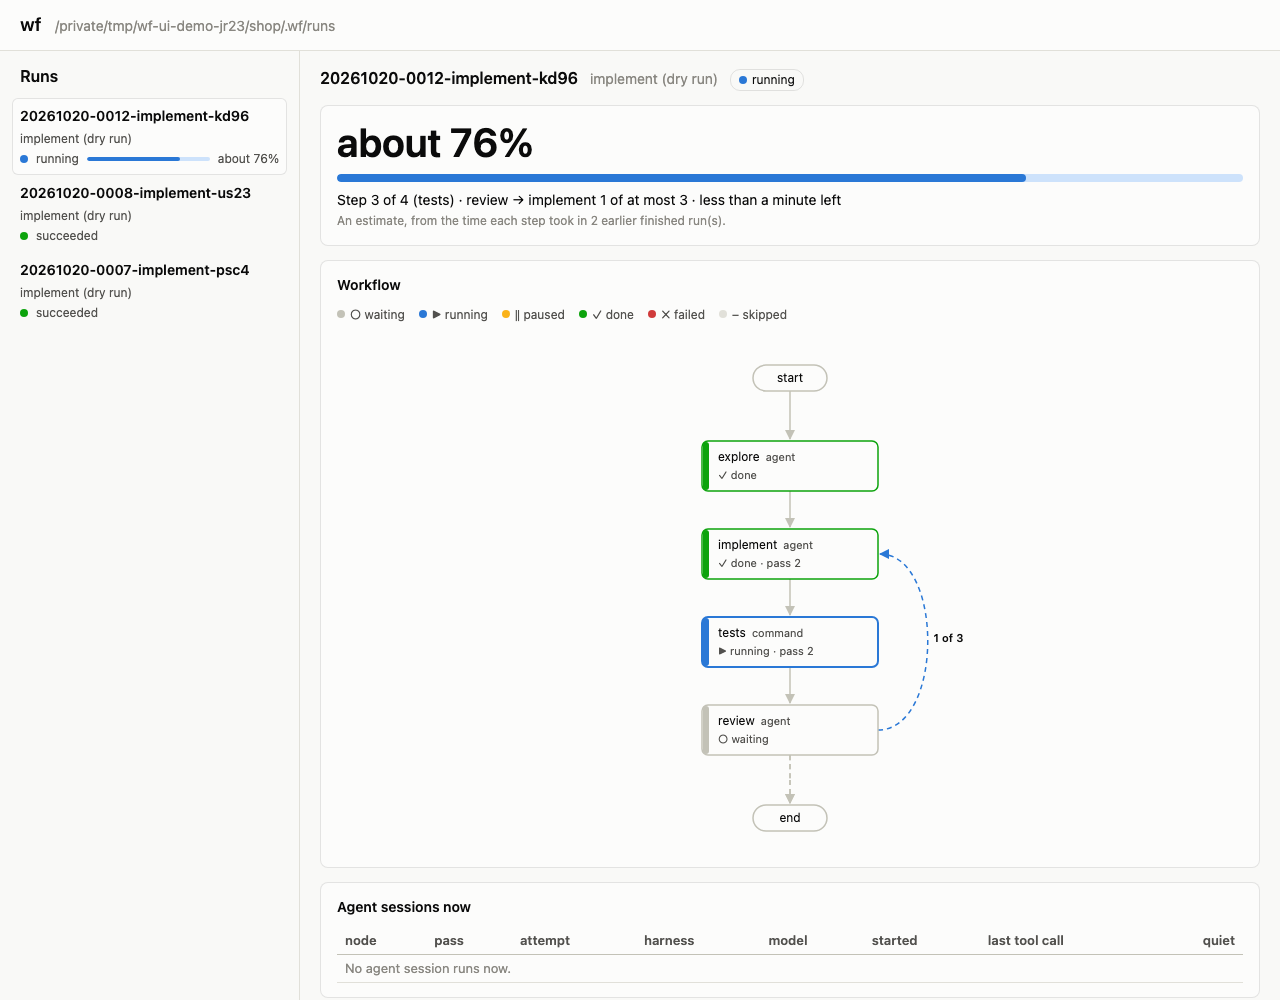
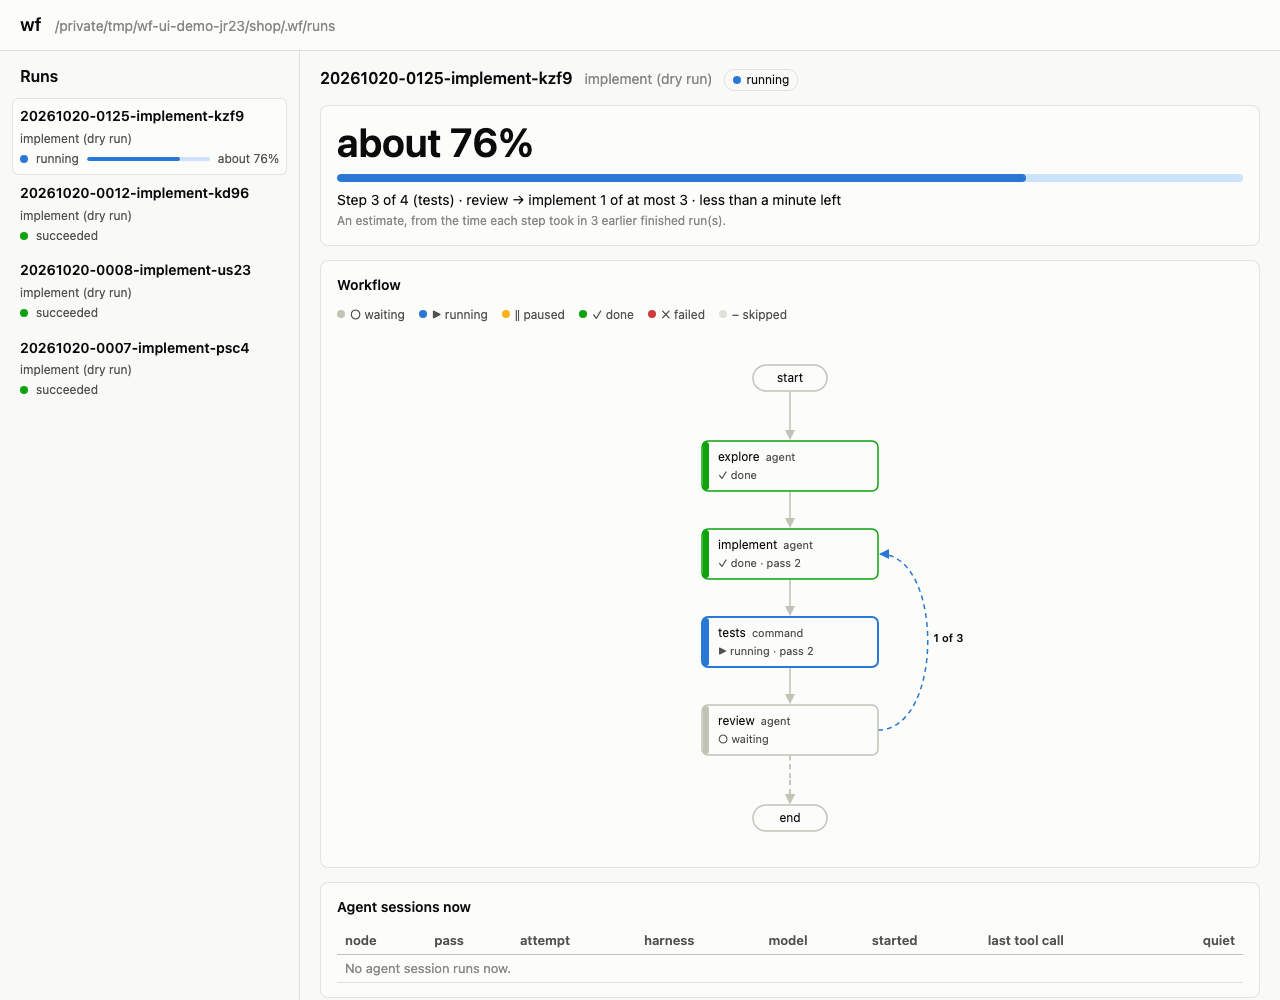
docs: describe the new estimate, the end of sessions, wf watch and the key of wf ui
The spec gives the new rules, each with its source line and its test. The README example comes from the estimate as it is now, and the page shows its refresh times. The screenshot and the firstmate notes follow the new behavior. The code line citations point past the edits of this branch.

diff --git a/docs/workflow-spec.md b/docs/workflow-spec.md
@@ -690,7 +690,7 @@ The tests named below are in `tests/test_capacity.py`, unless another file is na
 | A command node, a human node, a workflow node itself, or a dry run | It takes no slot. The agent nodes inside a workflow node do. | `workflow/nodes.py:262`, `workflow/nodes.py:561` | `test_command_and_human_nodes_take_no_slot`, `test_a_dry_run_takes_no_slot`, `test_an_agent_in_a_sub_workflow_waits_for_a_slot` |
 | Several attempts wait for one slot | Each tries again every `POLL_SECONDS` (0.2 seconds), and the first try after the slot comes free gets it. So they get it one at a time, in an order that is not defined. | `workflow/capacity.py:46`, `workflow/capacity.py:117`, `workflow/capacity.py:120` | `test_a_wait_tries_again_every_0_2_seconds`, `test_attempts_that_wait_for_one_slot_take_it_one_at_a_time` |
 | Every slot is taken | The attempt waits. The wait isn't a failure and uses no retry. The `attempt_started` event and the node's `timeout` come once the attempt has its slot. | `workflow/nodes.py:574`, `workflow/nodes.py:290`, `workflow/nodes.py:292` | `test_a_waiting_attempt_keeps_its_retries_and_its_timeout_starts_with_its_slot`, `test_a_retry_and_a_fallback_take_a_slot_again` |
-| An attempt waits | `events.jsonl` gets `slot_waiting`, then `slot_taken` with `waited_s`. Until the attempt has its slot, `agents_waiting` in `status.json` lists it with its node, attempt number and start time, and `wf status` names it. | `workflow/nodes.py:570`, `workflow/nodes.py:580`, `workflow/context.py:174`, `workflow/cli.py:405` | `test_a_waiting_attempt_keeps_its_retries_and_its_timeout_starts_with_its_slot`, `test_a_killed_process_frees_its_slot` |
+| An attempt waits | `events.jsonl` gets `slot_waiting`, then `slot_taken` with `waited_s`. Until the attempt has its slot, `agents_waiting` in `status.json` lists it with its node, attempt number and start time, and `wf status` names it. | `workflow/nodes.py:570`, `workflow/nodes.py:580`, `workflow/context.py:174`, `workflow/cli.py:412` | `test_a_waiting_attempt_keeps_its_retries_and_its_timeout_starts_with_its_slot`, `test_a_killed_process_frees_its_slot` |
 | A run limit is reached during the wait (the `duration` limit counts the wait) | The wait ends, the attempt doesn't start, and the run pauses at the limit. A slot that comes free at that moment goes back unused. | `workflow/capacity.py:117`, `workflow/nodes.py:578` | `test_a_limit_reached_while_waiting_ends_the_wait_and_the_attempt_never_starts`, `test_a_slot_that_comes_free_as_a_limit_is_reached_goes_back_unused`, `test_a_retry_that_a_limit_stops_while_it_waits_starts_once_after_wf_retry` |
 | A process that holds a slot dies | The operating system releases the lock, and an attempt that waits can take the slot. | `workflow/capacity.py:98` | `test_a_killed_process_frees_its_slot` |
 | A process dies while its attempt waits | `wf status` says `stopped`, without `agents_waiting`. | `workflow/operate.py:58` | `test_a_killed_waiter_is_stopped_and_no_longer_waiting` |
@@ -978,22 +978,35 @@ It counts like this:
   Each of them closes a loop.
 - Without the loops, a node's step is the number of nodes on the longest path from `start` to it.
   The longest path from `start` to `end` gives the number of steps.
+- The run's open nodes are the nodes that run, wait to start, failed, or finished and wait for their route.
+  The rest of the way is the longest path from an open node to `end`, with what is left of that node.
+  The open node with the most left decides how far the run is.
+  So a branch that a route left out counts no more, and a slow parallel step holds the estimate back.
+- A loop counts once for each time that the run went back along it.
+  A lap is the longest path from the step that the loop goes back to, to the step that goes back.
 - Each step weighs 1, and each loop counts as if the run goes back up to its `max`.
-  So the percentage is low rather than high, and it doesn't go down.
+  So the percentage is low rather than high.
+  In a run without parallel steps, it doesn't go down.
 - When the runs folder holds earlier runs of the same workflow that succeeded, wf uses the newest 10 of them.
   A dry run uses only dry runs, and a real run only real runs.
-  Each step then weighs its mean time per pass in them, times the share of them that got to it.
-  Each loop counts as many times as they took it on average.
+  Each step then weighs its mean time per pass in them.
+  A step that none of them ran weighs the mean of the other steps.
+  Each loop counts as many times as they went back on average.
   `wf status` then also gives the time left, and `left_s` in the JSON.
 - A step in progress counts in part.
   For a `for_each` step, that part is the share of its items that finished.
-  For a workflow node, it is the share of its sub-workflow that is done.
-  With earlier runs, it can also be its time so far against its mean time.
+  For a workflow node, it is the share of its sub-workflow that is done, with the items of its steps.
+  With earlier runs, another step counts its time so far against its mean time.
+  While the run doesn't move, that time stops at the run's last event.
 
 ### Agent sessions and events
 
 Each agent session adds `session_started` to `events.jsonl` when it opens, and `session_ended` when it closes.
 `session_started` names the node, pass, item, attempt, harness, model and effort, the process that runs the session, and its transcript in the run folder.
+
+A session runs until its `session_ended`, or until its attempt, pass or item ends.
+The end of an attempt, pass or item of a workflow node also ends each session inside it.
+A sub-workflow that its attempt stops, for example at the node's `timeout`, can't pass up its own `session_ended`.
 
 `wf sessions [run-id]` lists the agent sessions that run now, in one run or in each run of the repo.
 For each session it gives the run, node, pass, item, harness and model.
@@ -1002,13 +1015,18 @@ It also gives when the session started, its last tool call, and how long it has 
 
 `wf watch <run-id>` prints the run's last 20 events as `wf run` prints them, each with its time, and then each new event as it comes.
 `--from-start` prints all the events first.
-It stops when the run needs attention, as `wf wait` would report it, and prints the run's state.
+Each time the run needs attention, as `wf wait` would report it, `wf watch` prints the run's state and goes on.
+So it follows the run through `wf answer` and `wf retry`.
+It stops when the run succeeds or is discarded, or at Ctrl-C.
 Keep it open in a terminal pane to follow a run.
 
 ### The web page
 
-`wf ui` starts a web server on this machine and prints its address, `http://127.0.0.1:8765/` unless the port is in use.
-`--port` sets another port, and `--open` opens the page in the browser.
+`wf ui` starts a web server on this machine and prints the page's address, `http://127.0.0.1:8765/#token=<key>`, unless the port is in use.
+`--port` sets another port from 0 to 65535, and `--open` opens the page in the browser.
+Each server makes a new random key.
+The page sends the key with each request for data, and the server answers no request without it.
+So another program or user on the machine can't read the transcripts through the server.
 The page lists the runs of the repo, newest first.
 With `--all-repos` it lists the runs of each repo in the runs folder.
 For the run that you choose, the page shows these:
@@ -1020,25 +1038,33 @@ For the run that you choose, the page shows these:
 - the events, as `wf watch` prints them
 - the transcript, instruction and output of each attempt
 
-The page gets new data every 2 seconds.
+The page gets new data on its own: the run every 2 seconds, its events every second, and the list of runs every 5 seconds.
 It is three plain files in `workflow/ui/`, with no build step and nothing from another server.
 
 | Condition | Effect | Source line | Conformance assertion |
 |---|---|---|---|
-| A run of a workflow with a loop, and no earlier runs that succeeded | Each step weighs 1, and the loop counts up to its `max`. Step by step, the percentage goes up and never down. | `workflow/progress.py:285`, `workflow/progress.py:325` | `test_without_earlier_runs_each_step_weighs_one_and_each_loop_counts_to_its_max` |
-| The runs folder holds earlier runs of the workflow that succeeded | Steps weigh their mean time and loops their mean count, from `wf report`. `left_s` gives the time left. A dry run of the workflow counts only for a dry run. | `workflow/progress.py:228`, `workflow/progress.py:243` | `test_with_earlier_runs_steps_weigh_their_time_and_loops_their_mean_count`, `test_wf_status_says_how_far_a_run_is_and_learns_from_earlier_real_runs` |
-| The run has gone past a loop | The loop counts no more. | `workflow/progress.py:324` | `test_a_loop_the_run_has_left_counts_no_more` |
-| A route leaves out a branch | The nodes on it are `skipped`. | `workflow/progress.py:353` | `test_a_branch_a_route_left_out_is_skipped_and_a_failed_step_is_failed` |
-| A run waits for a person, is at a limit, or stopped | Its steps in progress are `paused`. | `workflow/progress.py:346` | `test_a_step_in_progress_of_a_run_that_does_not_move_is_paused` |
-| A `for_each` step, or a sub-workflow, is in progress | Its items that finished, or its sub-workflow's own estimate, count for it in part. | `workflow/progress.py:304` | `test_items_that_finished_count_for_their_step`, `test_a_sub_workflow_in_progress_counts_its_own_steps` |
+| A run of a workflow with a loop, and no earlier runs that succeeded | Each step weighs 1, and the loop counts up to its `max`. Event by event, the percentage goes up and never down. That holds also between a node's end and its route. | `workflow/progress.py:221`, `workflow/progress.py:94` | `test_without_earlier_runs_each_step_weighs_one_and_each_loop_counts_to_its_max`, `test_the_percentage_never_goes_down_event_by_event_even_before_a_route_is_chosen` |
+| A loop's way back has no `max` | The smallest `max` of another route in the loop bounds it. Only the way back counts its laps. | `workflow/shape.py:111`, `workflow/progress.py:269` | `test_a_loop_whose_way_back_has_no_max_is_bounded_by_the_route_that_has_one_and_counted_by_its_own` |
+| A heavier path leads into a loop | A lap counts only the loop's own path. | `workflow/shape.py:88` | `test_a_lap_is_the_loop_s_own_path_not_a_heavier_one_into_it` |
+| The runs folder holds earlier runs of the workflow that succeeded | Steps weigh their mean time and loops their mean count, from `wf report`. `left_s` gives the time left. A dry run counts only for a dry run. The numbers belong to the version of the workflow that asks for them. | `workflow/progress.py:152`, `workflow/progress.py:168` | `test_with_earlier_runs_steps_weigh_their_time_and_loops_their_mean_count`, `test_wf_status_says_how_far_a_run_is_and_learns_from_earlier_real_runs` |
+| A step that no earlier run ran | It weighs the mean of the other steps. | `workflow/progress.py:220` | `test_a_step_that_no_earlier_run_ran_weighs_the_mean_of_the_others` |
+| The run has gone past a loop | The loop counts no more. | `workflow/progress.py:275` | `test_a_loop_the_run_has_left_counts_no_more` |
+| A route leaves out a branch | The nodes on it are `skipped`. The steps, the percentage and the time left leave them out. | `workflow/progress.py:259`, `workflow/progress.py:303` | `test_a_branch_a_route_left_out_is_skipped_and_counts_no_more` |
+| Parallel steps are in progress | The step with the most left decides the estimate. | `workflow/progress.py:259` | `test_a_slow_parallel_step_holds_the_estimate_back` |
+| A run waits for a person, is at a limit, or stopped | Its steps in progress are `paused`, and the time of each step stops at the run's last event. | `workflow/progress.py:296`, `workflow/progress.py:215` | `test_a_step_in_progress_of_a_run_that_does_not_move_is_paused`, `test_a_run_that_does_not_move_stops_its_clock_at_its_last_event` |
+| A `for_each` step, or a sub-workflow, is in progress | Its items that finished, or its sub-workflow's own estimate, count for it in part, before its time does. | `workflow/progress.py:248`, `workflow/progress.py:234` | `test_the_items_that_finished_beat_the_time_a_step_took`, `test_a_sub_workflow_in_progress_counts_its_own_steps_and_items` |
+| A run's files go while `wf status` reads them | It says where the run stands, with no estimate. | `workflow/progress.py:204`, `workflow/report.py:260` | `test_wf_status_still_says_where_a_run_stands_when_its_files_change_meanwhile` |
 | An agent session opens, and closes | `events.jsonl` gets `session_started`, and then `session_ended`. | `workflow/nodes.py:479`, `workflow/nodes.py:516` | `test_each_session_starts_and_ends_with_an_event`, `test_a_session_inside_a_sub_workflow_names_its_transcript_from_the_run_folder` |
-| A session has no `session_ended`, and its process drives the run | `wf sessions` lists it. | `workflow/observe.py:59` | `test_wf_sessions_lists_the_agent_sessions_that_run_now` |
-| A process that no longer drives the run left a session open | `wf sessions` doesn't list it. | `workflow/observe.py:59` | `test_a_session_left_open_by_a_process_that_no_longer_drives_the_run_is_not_listed` |
-| `wf watch` follows a run | It prints each new event, and stops with the run's state once the run needs attention. | `workflow/observe.py:159` | `test_wf_watch_prints_the_steps_and_tool_calls_as_they_come_until_the_run_ends`, `test_wf_watch_on_a_run_that_ended_prints_the_last_events_and_how_it_ended` |
-| A request to `wf ui` names another host in its `Host` header | The server refuses it with 403. So a web page can't read it through a DNS name that points to `127.0.0.1`. | `workflow/ui.py:212` | `test_the_server_refuses_other_hosts_unknown_runs_and_files_outside_the_passes` |
-| The page asks for a file of a run | Only `instruction.md`, `output.json`, `session.json` and `attempt-<n>.log` under `nodes/` come back, and no link out of `nodes/` is followed. | `workflow/ui.py:172` | `test_the_page_shows_files_of_the_passes_and_nothing_else` |
-| The page shows what a run wrote | It puts it in the page as text, never as HTML, and the server lets the page run only its own script. | `workflow/ui.py:243` | `test_the_server_serves_the_page_and_its_json_on_this_machine_only` |
-| The port is in use | `wf ui` uses a free port, and says which. | `workflow/ui.py:260` | `test_a_port_in_use_gives_way_to_a_free_one` |
+| A session has no `session_ended`, its attempt goes on, and its process drives the run | `wf sessions` lists it. | `workflow/observe.py:70` | `test_wf_sessions_lists_the_agent_sessions_that_run_now` |
+| The attempt, pass or item of a session ends, or that of the workflow node around it | The session is over, also with no `session_ended`. | `workflow/observe.py:65`, `workflow/observe.py:94` | `test_a_session_ends_with_its_attempt_its_item_or_the_workflow_node_around_it`, `test_a_session_inside_a_workflow_node_that_timed_out_is_not_listed` |
+| A process that no longer drives the run left a session open | `wf sessions` doesn't list it. | `workflow/observe.py:70` | `test_a_session_left_open_by_a_process_that_no_longer_drives_the_run_is_not_listed` |
+| `wf watch` follows a run | It prints each new event, and the run's state each time that the run needs attention. It stops once the run succeeds or is discarded. | `workflow/observe.py:178`, `workflow/observe.py:174`, `workflow/observe.py:168` | `test_wf_watch_prints_the_steps_and_tool_calls_as_they_come_until_the_run_ends`, `test_wf_watch_goes_on_through_a_question_until_the_run_succeeds`, `test_wf_watch_stops_when_the_run_is_discarded`, `test_wf_watch_on_a_run_that_ended_prints_the_last_events_and_how_it_ended` |
+| A request to `wf ui` for data has no key, or another key | The server refuses it with 401. | `workflow/ui.py:246` | `test_the_server_gives_data_only_to_the_page_that_has_its_key` |
+| A request to `wf ui` names another host in its `Host` header | The server refuses it with 403. So a web page can't read it through a DNS name that points to `127.0.0.1`. | `workflow/ui.py:238` | `test_the_server_refuses_other_hosts_unknown_runs_and_files_outside_the_passes` |
+| The page asks for a file of a run | Only `instruction.md`, `output.json`, `session.json` and `attempt-<n>.log` under `nodes/` come back, and no link out of `nodes/` is followed. | `workflow/ui.py:196` | `test_the_page_shows_files_of_the_passes_and_nothing_else` |
+| The page shows what a run wrote | It puts it in the page as text, never as HTML, and the server lets the page run only its own script. | `workflow/ui.py:271` | `test_the_server_serves_the_page_and_its_json_on_this_machine_only` |
+| `--port` isn't a number from 0 to 65535 | `wf ui` says so and exits with code 1, before it starts a server. | `workflow/cli.py:251` | `test_a_port_that_is_not_a_port_is_refused_with_a_message` |
+| The port is in use | `wf ui` uses a free port, and says which. | `workflow/ui.py:288` | `test_a_port_in_use_gives_way_to_a_free_one` |
 
 ## Validation
 
@@ -1129,6 +1155,7 @@ workflow/
   runs.py           run folder, events, finding a run by id
   trace.py          the run's trace: trace.jsonl, blobs/, and keeping secrets out
   trace_view.py     wf trace
+  shape.py          the graph without its loops: steps and loops, for wf status and wf ui
   progress.py       how far a run is, as an estimate, for wf status
   observe.py        wf sessions and wf watch: the sessions that run now, and the event stream
   ui.py, ui/        wf ui: the server and the page

diff --git a/docs/tools.md b/docs/tools.md
@@ -69,9 +69,9 @@ The tests named below are in `tests/test_tools.py`.
 | The redirect has no `iss`, and the metadata says the server sends one | Setup stops. | `workflow/tools/signin.py:142` | `test_a_sign_in_without_the_iss_the_server_says_it_sends_is_ignored` |
 | The vendor says no (`error=access_denied`), or sends no code | Setup stops, and asks for no token. | `workflow/tools/signin.py:145`, `workflow/tools/signin.py:147` | `test_a_sign_in_that_comes_back_wrong_gets_no_token` |
 | No redirect comes back within 5 minutes | Setup stops. | `workflow/tools/signin.py:139` | `test_setup_gives_up_when_no_sign_in_comes_back` |
-| The redirect is good | Setup trades the code for tokens with the PKCE verifier, saves them in the Keychain item, and runs doctor. | `workflow/cli.py:547`, `workflow/cli.py:552` | `test_setup_signs_in_in_the_browser_and_keeps_the_secret_in_the_keychain` |
+| The redirect is good | Setup trades the code for tokens with the PKCE verifier, saves them in the Keychain item, and runs doctor. | `workflow/cli.py:554`, `workflow/cli.py:559` | `test_setup_signs_in_in_the_browser_and_keeps_the_secret_in_the_keychain` |
 | `--token` | Setup asks you to paste a token instead, saves it, and runs doctor. A pasted token has no refresh. Only the tools whose vendor gives tokens out take `--token`. | `workflow/tools/signin.py:110` | `test_setup_takes_a_pasted_token`, `test_only_tools_whose_vendor_gives_out_tokens_take_one` |
-| There's no terminal | Setup refuses, since it asks you to sign in. | `workflow/cli.py:542` | `test_setup_needs_a_terminal` |
+| There's no terminal | Setup refuses, since it asks you to sign in. | `workflow/cli.py:549` | `test_setup_needs_a_terminal` |
 
 ### Slack
 
@@ -152,7 +152,7 @@ The tests named below are in `tests/test_tools.py`.
 
 | Condition | Effect | Source line | Conformance assertion |
 |---|---|---|---|
-| The Keychain holds no sign-in for the tool, or one wf didn't write | `not set up`, with `run wf tools <name> setup`. `wf tools doctor` doesn't fail for it, and `wf tools <name> doctor` exits with 1. | `workflow/tools/doctor.py:50`, `workflow/cli.py:566` | `test_doctor_for_every_tool_reports_one_that_is_not_set_up_without_failing`, `test_a_stored_item_wf_didnt_write_counts_as_not_set_up` |
+| The Keychain holds no sign-in for the tool, or one wf didn't write | `not set up`, with `run wf tools <name> setup`. `wf tools doctor` doesn't fail for it, and `wf tools <name> doctor` exits with 1. | `workflow/tools/doctor.py:50`, `workflow/cli.py:573` | `test_doctor_for_every_tool_reports_one_that_is_not_set_up_without_failing`, `test_a_stored_item_wf_didnt_write_counts_as_not_set_up` |
 | The Keychain can't be read | `fail`, with "unlock your login Keychain". | `workflow/tools/doctor.py:48` | `test_doctor_says_when_the_keyring_cannot_be_read` |
 | The access token has expired | It's refreshed, and the checks go on. | `workflow/tools/signin.py:228` | `test_doctor_refreshes_a_sign_in_that_has_expired` |
 | The vendor refuses the sign-in, or the refresh | `fail`, with `run wf tools <name> setup`. | `workflow/tools/doctor.py:65` | `test_doctor_says_to_sign_in_again_when_the_vendor_refuses` |
@@ -163,7 +163,7 @@ The tests named below are in `tests/test_tools.py`.
 | The server marks an operation read-only (`readOnlyHint`), and wf keeps it back | The report adds a note that suggests adding it to the list. | `workflow/tools/doctor.py:88` | `test_doctor_notes_an_operation_the_server_marks_read_only_that_wf_keeps_back` |
 | wf counts an operation as a read, and the server marks it as changing things (`readOnlyHint: false` or `destructiveHint: true`) | `fail`, with "update wf". | `workflow/tools/doctor.py:93` | `test_doctor_fails_when_a_read_on_wfs_list_is_marked_as_changing_things` |
 | All four checks pass | `pass` | `workflow/tools/doctor.py:95` | `test_doctor_passes_when_the_sign_in_works_and_a_read_call_answers` |
-| Setup saved a sign-in that doctor fails | Setup exits with 1. | `workflow/cli.py:554` | `test_setup_that_saves_a_sign_in_doctor_rejects_exits_with_1` |
+| Setup saved a sign-in that doctor fails | Setup exits with 1. | `workflow/cli.py:561` | `test_setup_that_saves_a_sign_in_doctor_rejects_exits_with_1` |
 
 ## In a workflow
 

diff --git a/README.md b/README.md
@@ -60,17 +60,21 @@ Until earlier finished runs show how long each step takes, wf counts each loop a
 Then it gives the time left too.
 
 ```sh
-wf status <run-id>     # step 3 of 4 (tests), review → implement 1 of at most 3, about 76%
+wf status <run-id>     # step 3 of 4 (tests), review → implement 1 of at most 3, about 38%
 wf sessions            # each agent session that runs now: node, harness, model, last tool call, quiet time
-wf watch <run-id>      # the run's steps and tool calls as they come: keep it open in a pane
-wf ui                  # a web page on http://127.0.0.1:8765/ with all of it
+wf watch <run-id>      # the run's steps and tool calls as they come, until it succeeds: keep it open in a pane
+wf ui                  # a web page on 127.0.0.1 with all of it, at the address that it prints
 ```
+
+The `wf status` line above is for a run of `implement.yaml` with no earlier finished runs, at its tests for the second time.
 
 `wf ui` is a small web page that wf serves on your machine only.
 It lists the runs of the repo.
 For each run it draws the workflow graph, with the state of each step.
 It also shows the progress, the numbers of `wf report`, the live events, and each session's transcript and instruction.
-It gets new data every 2 seconds, and it needs no build step and no other service.
+It gets new data on its own: the run every 2 seconds, its events every second, and the list of runs every 5 seconds.
+It needs no build step and no other service.
+The address that `wf ui` prints holds a key, so other programs and users on the machine can't read the runs through it.
 
 ![wf ui: a run of implement.yaml at its tests for the second time](assets/wf-ui.png)
 

diff --git a/integrations/firstmate/wf/SKILL.md b/integrations/firstmate/wf/SKILL.md
@@ -51,6 +51,8 @@ The percentage is an estimate: report it as "about".
 `wf sessions <run-id> --json` lists the agent sessions that run now, with each one's last tool call and how long it has been quiet.
 A session that has been quiet for a long time is worth a look at its transcript before you call the run stuck.
 To give the captain a live view, offer `wf watch <run-id>` for a terminal pane, or `wf ui` for a web page on their machine.
+`wf watch` follows the run through questions and retries until it succeeds.
+`wf ui` prints the page's address with a key in it: give the captain that whole address.
 A `running` run whose `agents_waiting` is not empty waits for a free agent slot.
 The cap on agent sessions across all runs that use the same `~/.wf` comes from
 `max_agents` in `~/.wf/config.yaml` or from `WF_MAX_AGENTS`.

diff --git a/integrations/firstmate/README.md b/integrations/firstmate/README.md
@@ -56,7 +56,7 @@ command that the new wf doesn't have.
 | `wf retry <run-id> --detach` | continue a failed or stopped run |
 | `wf status <run-id> --json`, `wf list --json` | where runs stand, and in `progress` of status, how far, as an estimate |
 | `wf sessions [run-id] --json` | the agent sessions that run now, with each one's last tool call and quiet time |
-| `wf watch <run-id>` | the run's steps and tool calls as they come, for a terminal pane |
+| `wf watch <run-id>` | the run's steps and tool calls as they come, until it succeeds, for a terminal pane |
 | `wf ui [--all-repos]` | a web page on this machine with the graph, progress, metrics, events and transcripts |
 | `wf wait <run-id> [--consumer NAME]` | block until a run needs attention (what the adapter polls) |
 
